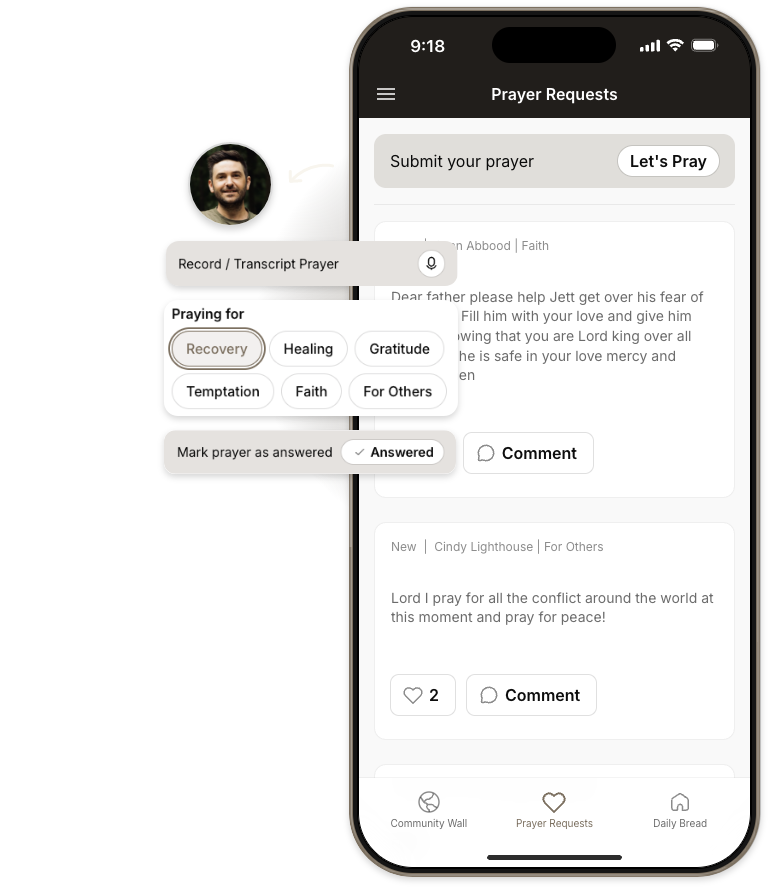
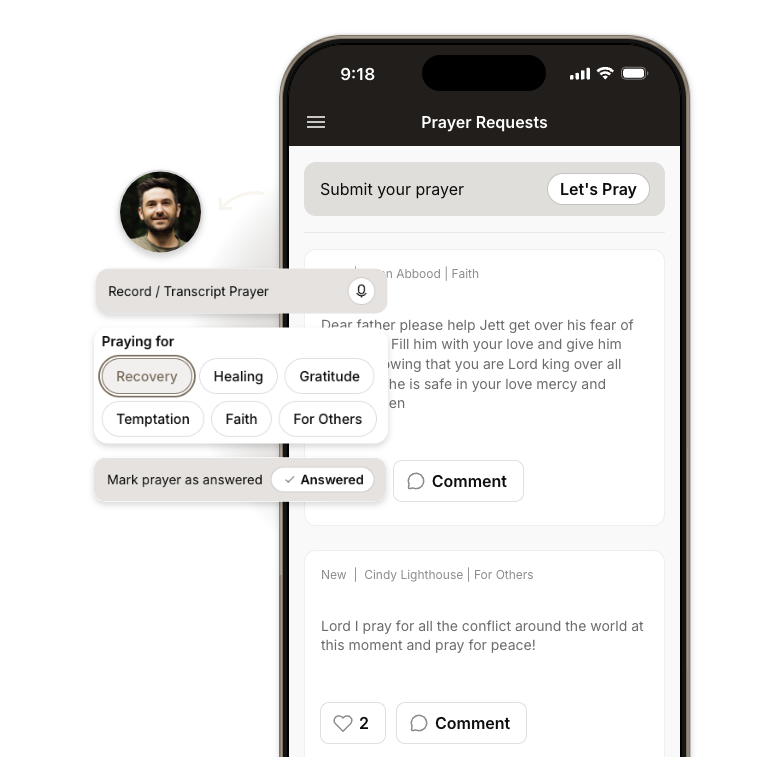
Update app showcase styles for improved layout and responsiveness

Changed region(s): [[0.1215, 0.0, 1.0, 1.0], [0.5165, 0.7292, 0.7596, 0.79]]

diff --git a/index.html b/index.html
@@ -243,7 +243,7 @@
     /* APP SHOWCASE CAROUSEL */
     .app-showcase-section {
       background: var(--dark); margin: 0 40px 60px;
-      border-radius: 24px; padding: 80px 60px 48px;
+      border-radius: 24px; padding: 80px 0 48px 60px;
       overflow: hidden;
     }
     .app-showcase-inner {
@@ -271,10 +271,12 @@
       transition: opacity 0.3s ease;
     }
     .app-showcase-right {
-      flex-shrink: 0;
+      flex-shrink: 0; align-self: stretch;
+      display: flex; align-items: flex-end;
+      margin-top: -80px;
     }
     .app-screen-img {
-      width: 280px;
+      width: 400px;
       transition: opacity 0.3s ease;
     }
     .app-screen-img img {
@@ -686,7 +688,7 @@
     @media (max-width: 860px) {
       .app-showcase-section {
         margin: 0 20px 40px;
-        padding: 48px 24px 40px;
+        padding: 48px 0 40px 24px;
       }
       .app-showcase-inner {
         flex-direction: column;
@@ -696,12 +698,16 @@
       }
       .app-showcase-left {
         max-width: 100%;
+        padding-right: 24px;
       }
       .app-showcase-left .btn-dark {
         margin: 0 auto;
       }
+      .app-showcase-right {
+        margin-top: 0; align-self: auto;
+      }
       .app-screen-img {
-        width: 220px;
+        width: 280px;
       }
       .carousel-dots {
         margin-top: 28px;
